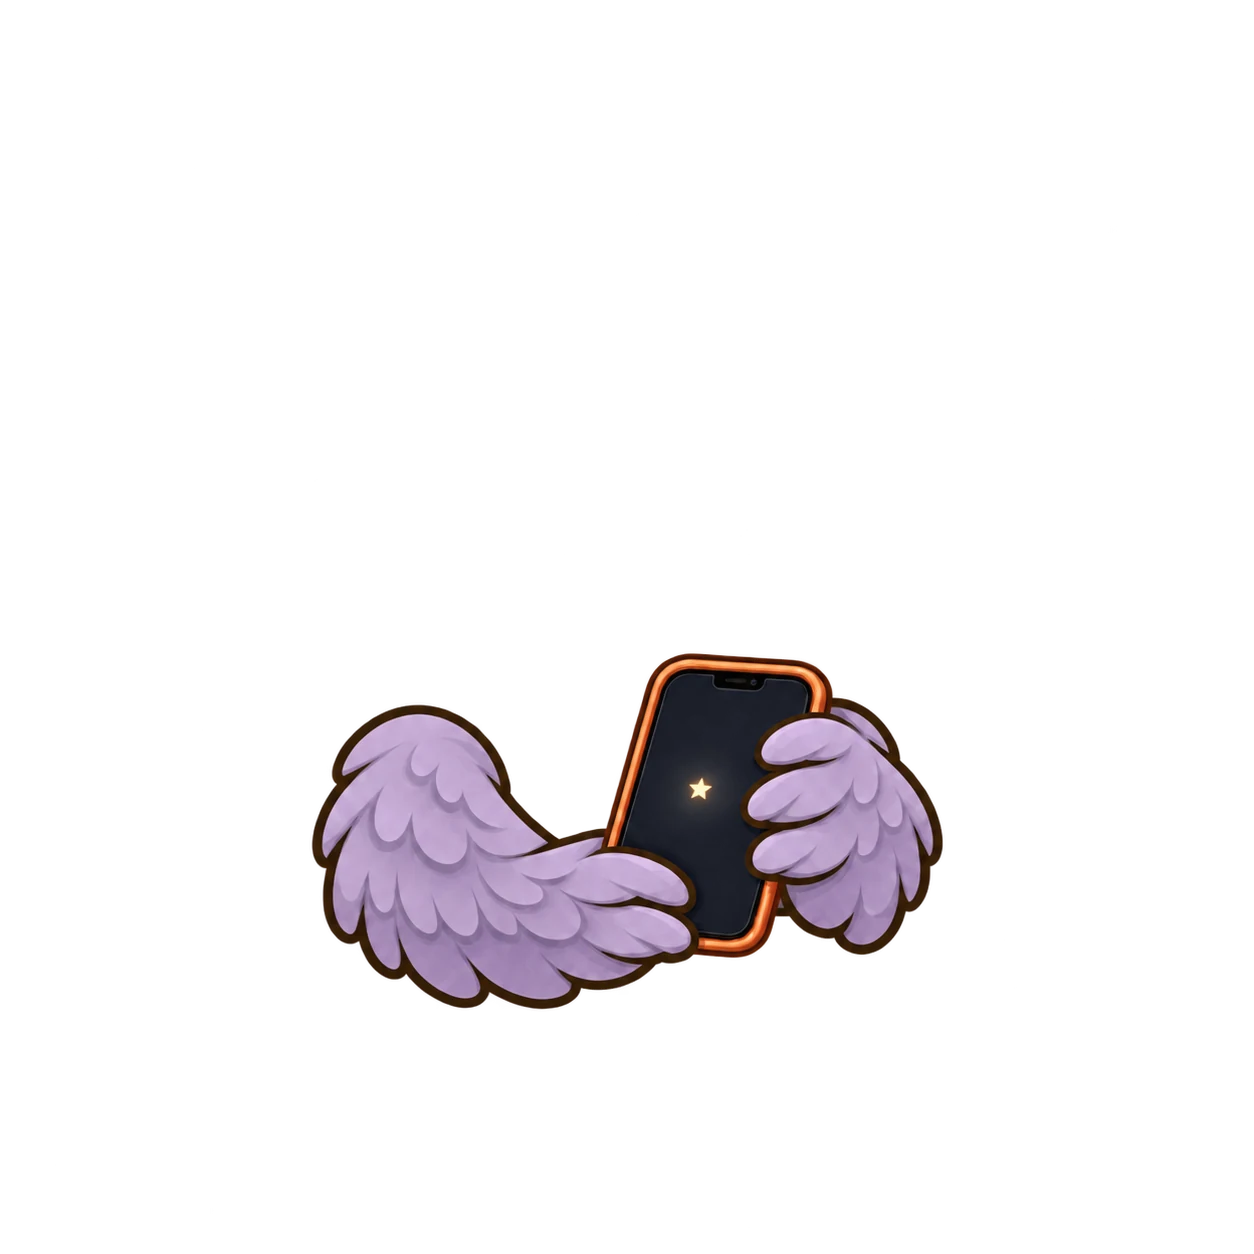
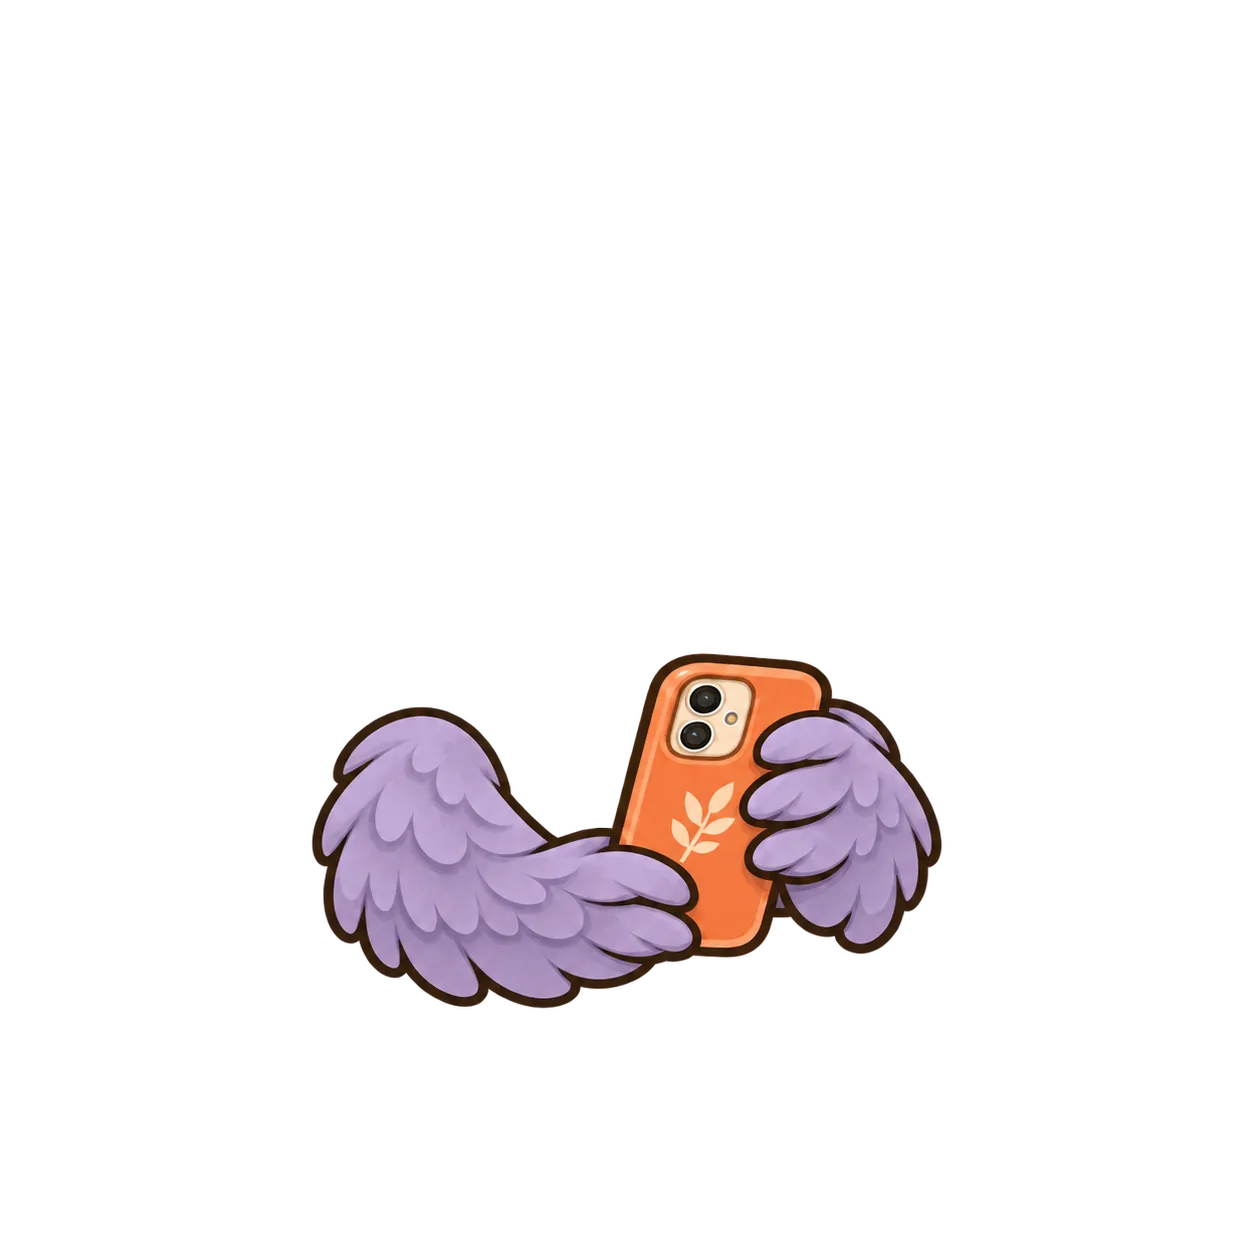
Moka el eşyaları: telefon kolları yeni çizimlerle (8 kürk), ukulele/telefon/olta/kılıç/değnek kol büyütme, fincan kanatları aşağı

diff --git a/src/components/MokaHeldItem.tsx b/src/components/MokaHeldItem.tsx
@@ -39,6 +39,10 @@ const DRAWN_HOLDS: Record<string, ImageSourcePropType> = {
 const SEAM: Record<string, number | undefined> = { el_semsiye: 0.36 };
 /** Eşyayı tutan kanatlar çok yukarıdaysa tüm görseli aşağı indirir (görselin boyuna oranı). */
 const DROP: Record<string, number | undefined> = { el_fincan: 0.055 };
+/** Çiftli kanat görselini kendi merkezi etrafında büyütür (ukulele gibi küçük kalan eşyalar). */
+const GROW: Record<string, number | undefined> = { el_gitar: 1.22, el_telefon: 1.2 };
+/** Eşyayı tutan tek kanadı büyütür (olta tutan sağ kanat). */
+const WING_GROW: Record<string, number | undefined> = { el_olta: 1.12, el_kilic: 1.15, el_degnek: 1.15 };
 
 const DRAWN_EFFECTS: Record<string, Point | undefined> = {
   el_fincan: [275, 220], el_fener: [361, 302], el_mum: [282, 201],
@@ -81,6 +85,7 @@ export function HeldItemModel({ id, size, pose, fur, motion, animated }: {
   if (drawn) {
     const effect = DRAWN_EFFECTS[id];
     const drop = DROP[id] ?? 0;
+    const grow = GROW[id] ?? 1;
     const effectPoint: Point | undefined = effect && id === 'el_fener' ? [effect[0] + 512 * 0.06, effect[1]] : effect && drop ? [effect[0], effect[1] + 512 * drop] : effect;
     const mirrored = id === 'el_kilic' || id === 'el_degnek';
     const seam = size * (0.07 + (SEAM[id] ?? 0.5) * 0.86);
@@ -101,7 +106,7 @@ export function HeldItemModel({ id, size, pose, fur, motion, animated }: {
             { translateX: size * (side === 0 ? 0.12 : -0.12) }, { translateY: size * 0.02 },
             { rotate: animated && side === heldSide
               ? motion.interpolate({ inputRange: [-1, 1], outputRange: ['-2deg', '2deg'] }) : '0deg' },
-            { translateY: -size * 0.02 }, { translateX: size * (side === 0 ? -0.12 : 0.12) },
+            { translateY: -size * 0.02 }, { translateX: size * (side === 0 ? -0.12 : 0.12) }, { scale: side === heldSide ? (WING_GROW[id] ?? 1) : 1 },
           ],
         }}>{id === 'el_balon' && side === 1 && animated ? <>
           <Animated.View style={{ position: 'absolute', width: size / 2, height: size * 0.438, overflow: 'hidden', transform: [
@@ -131,7 +136,7 @@ export function HeldItemModel({ id, size, pose, fur, motion, animated }: {
         </> : <Image source={drawn} resizeMode="stretch" fadeDuration={0} accessible={false}
           style={{ position: 'absolute', left: size * 0.07 - side * seam, top: size * 0.025, width: size * 0.86, height: size * 0.86, transform: [{ scaleX: mirrored ? -1 : 1 }] }} />}</Animated.View>) :
           <Image source={drawn} resizeMode="stretch" fadeDuration={0} accessible={false}
-            style={{ position: 'absolute', left: size * 0.07, top: size * (0.025 + drop), width: size * 0.86, height: size * 0.86, transform: [{ scaleX: id === 'el_kitap' ? 1.15 : 1 }] }} />}
+            style={{ position: 'absolute', left: size * (0.5 - 0.43 * grow), top: size * (0.025 + drop + 0.43 * (1 - grow)), width: size * 0.86 * grow, height: size * 0.86 * grow, transform: [{ scaleX: id === 'el_kitap' ? 1.15 : 1 }] }} />}
         {animated && effectPoint && <HeldEffect key={'drawn-effect-' + id} id={id} size={size} point={effectPoint} />}
         {animated && id === 'el_sulama' && <View pointerEvents="none" style={{ position: 'absolute', left: size * 0.904, top: size * 0.59 }}>
           {[0, 1, 2].map(index => <Animated.View key={index} style={{
